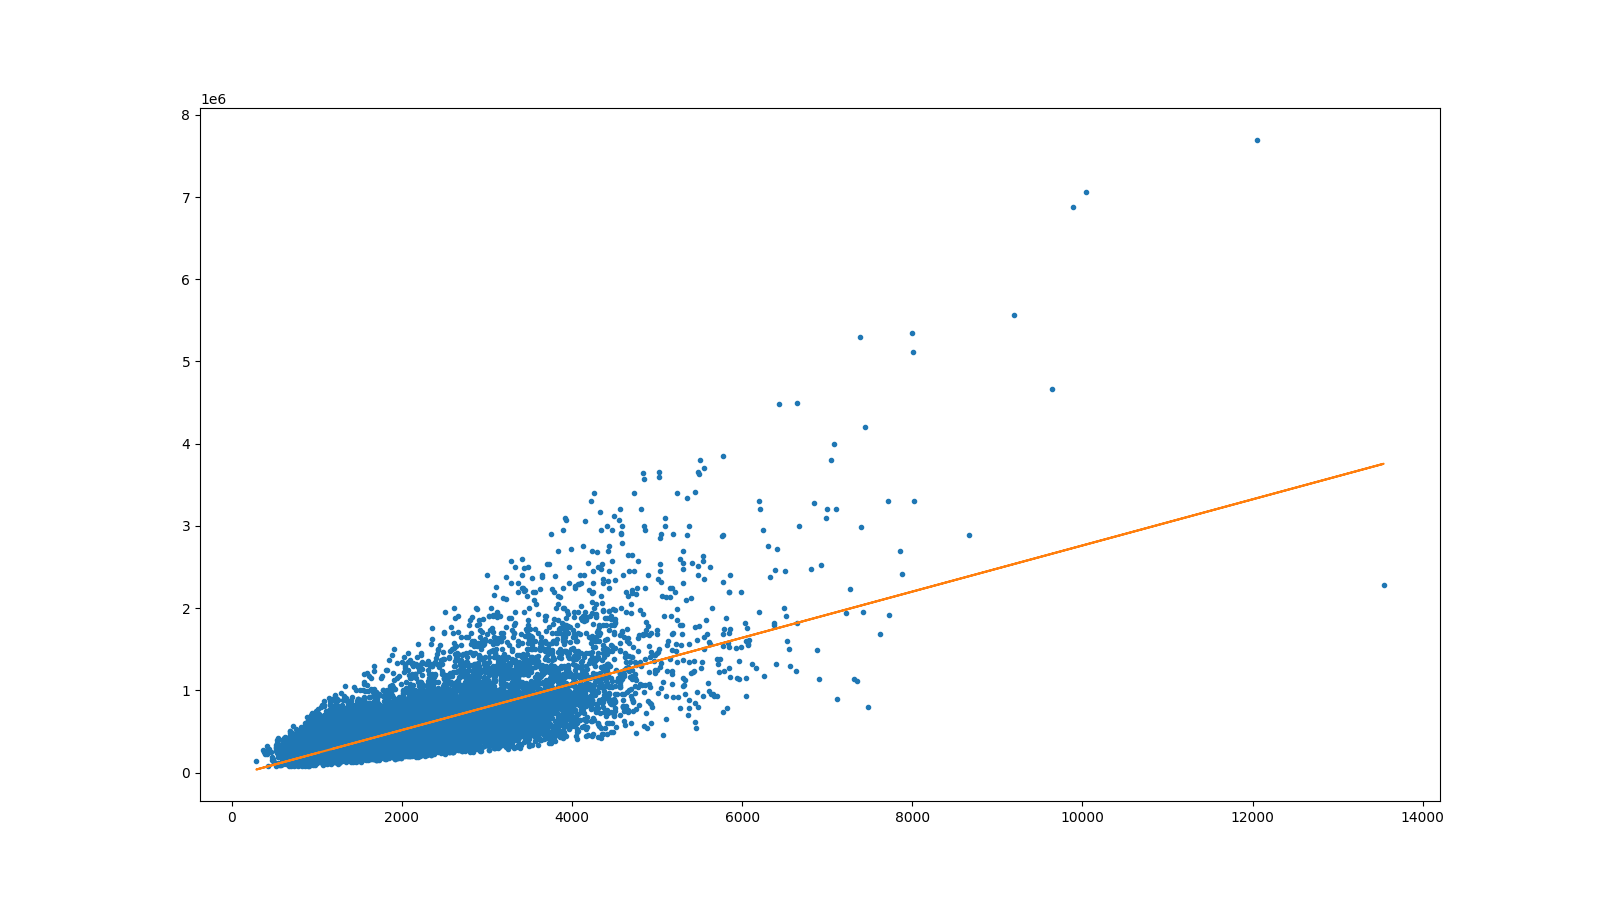
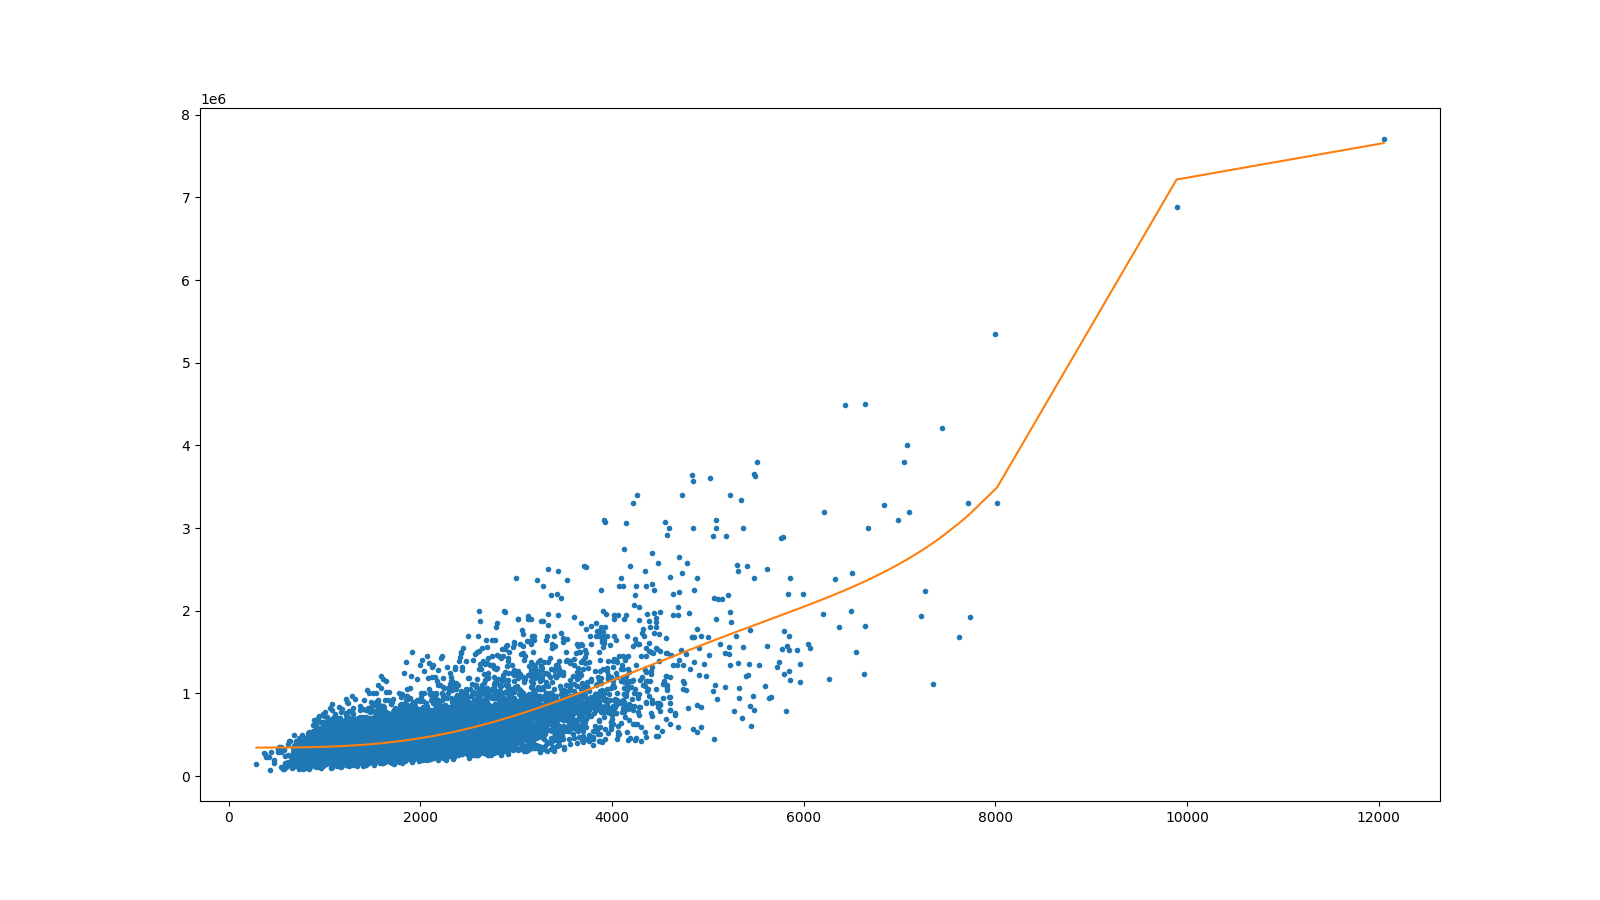
question 11

diff --git a/c2mod4assignment/c2mod4assg.py b/c2mod4assignment/c2mod4assg.py
@@ -20,8 +20,8 @@ def read_house_data(path=".\\", file_name="data.csv", dtype_dict=None):
 def assess_dataframe(df):
     print(f"rowcount {df.shape[0]} colcount {df.shape[1]}")
     print(f"dtypes {dict(df.dtypes)}")
-    print("First 5 rows:")
-    print(df.head())
+    #print("First 5 rows:")
+    #print(df.head())
 
 def add_terms_of_polynomial(df, feature_name, degree):
     #Add columns polynomial terms as columns to dataframe till/including degree
@@ -64,14 +64,17 @@ house_data_set_4_df = read_house_data(path=path, file_name=file_name_set_4, dtyp
 house_data_set_4_df.sort_values(['sqft_living', 'price'])
 
 #define degree, x_feature_names and y_feature_names
-degree = 1
+degree = 7
 x_feature_names = ['sqft_living']
 for i in range(2, degree + 1):
     x_feature_names.append(f'sqft_living_pwr_{i}')
 y_feature_names = ['price']
 
 #Create the dataframe with terms of polynomial of given degree
-polynomial_df = add_terms_of_polynomial(df=house_data_all_df, feature_name='sqft_living', degree=degree)
+polynomial_df = add_terms_of_polynomial(df=house_data_train_df, feature_name='sqft_living', degree=degree)
+
+#Sorting is important to make the plot to image working!!
+polynomial_df = polynomial_df.sort_values(['sqft_living', 'price'])
 
 #Create and fit a model
 y = polynomial_df[y_feature_names].values
